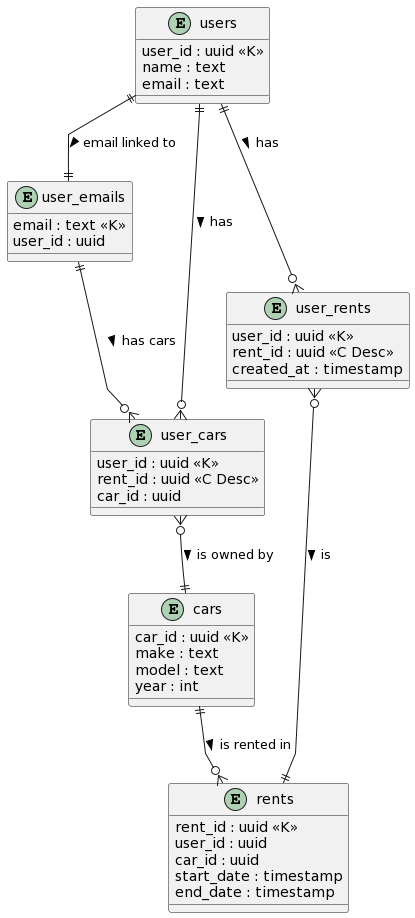
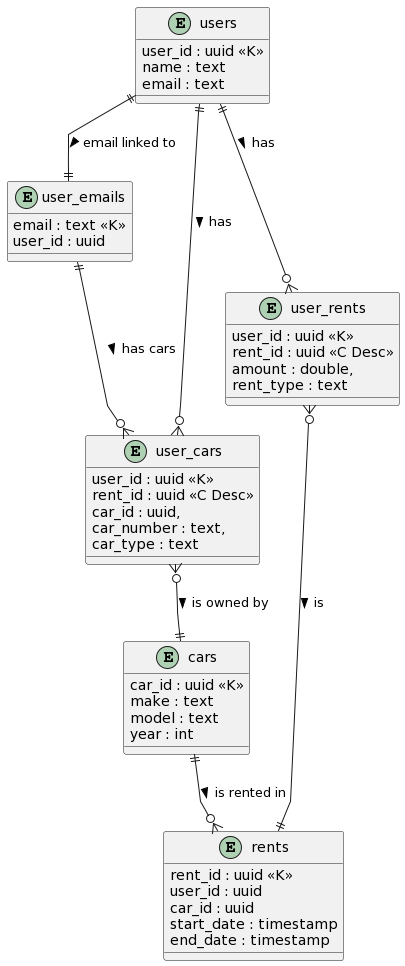
Add information in user_cars and user_rents in the script and update code

Changed region(s): [[0.0296, 0.0, 0.9778, 1.0], [0.2074, 0.305, 0.237, 0.366]]

diff --git a/src/controllers/rents.js b/src/controllers/rents.js
@@ -7,14 +7,13 @@ export const getRents = (req, res) => {
 };
 
 export const addRent = (req, res) => {
-  const { user_id, car_id, start_date, end_date } = req.body;
+  const { user_id, car_id, amount, car_number, rent_type, car_type, start_date, end_date } = req.body;
   const rent_id = uuidv4();
-  const created_at = Date.now();
   const query = `
         BEGIN BATCH
             INSERT INTO car_rental.rents (rent_id, user_id, car_id, start_date, end_date) VALUES (?, ?, ?, ?, ?);
-            INSERT INTO car_rental.user_rents (user_id, rent_id, created_at) VALUES (?, ?, ?);
-            INSERT INTO car_rental.user_cars (user_id, rent_id, car_id) VALUES (?, ?, ?);
+            INSERT INTO car_rental.user_rents (user_id, rent_id, amount, rent_type) VALUES (?, ?, ?, ?);
+            INSERT INTO car_rental.user_cars (user_id, rent_id, car_id, car_number, car_type) VALUES (?, ?, ?, ?, ?);
         APPLY BATCH;
     `;
   executeCqlQuery(
@@ -27,10 +26,13 @@ export const addRent = (req, res) => {
       end_date,
       user_id,
       rent_id,
-      created_at,
+      amount,
+      rent_type,
       user_id,
       rent_id,
       car_id,
+      car_number,
+      car_type
     ],
     res,
     "Failed to create rent record."

diff --git a/src/controllers/users.js b/src/controllers/users.js
@@ -35,24 +35,24 @@ export const getUsers = (req, res) => {
 };
 
 export const getUserCars = (req, res) => {
-  const user_id = req.params.user_id;
-  const rent_id = req.params.rent_id;
-  const query = "SELECT * FROM user_cars WHERE user_id = ? AND rent_id = ?";
+  const car_number = req.body.car_number;
+  const car_type = req.body.car_type;
+  const query = "SELECT * FROM user_cars WHERE car_number = ? AND car_type = ?";
   executeCqlQuery(
     query,
-    [user_id, rent_id],
+    [car_number, car_type],
     res,
     "Failed to retrieve user cars."
   );
 };
 
 export const getUserRents = (req, res) => {
-  const user_id = req.params.user_id;
-  const rent_id = req.params.rent_id;
-  const query = "SELECT * FROM user_rents WHERE user_id = ? AND rent_id = ?";
+  const amount = req.body.amount;
+  const rent_type = req.body.rent_type;
+  const query = "SELECT * FROM user_rents WHERE amount = ? AND rent_type = ?";
   executeCqlQuery(
     query,
-    [user_id, rent_id],
+    [amount, rent_type],
     res,
     "Failed to retrieve user rents."
   );
